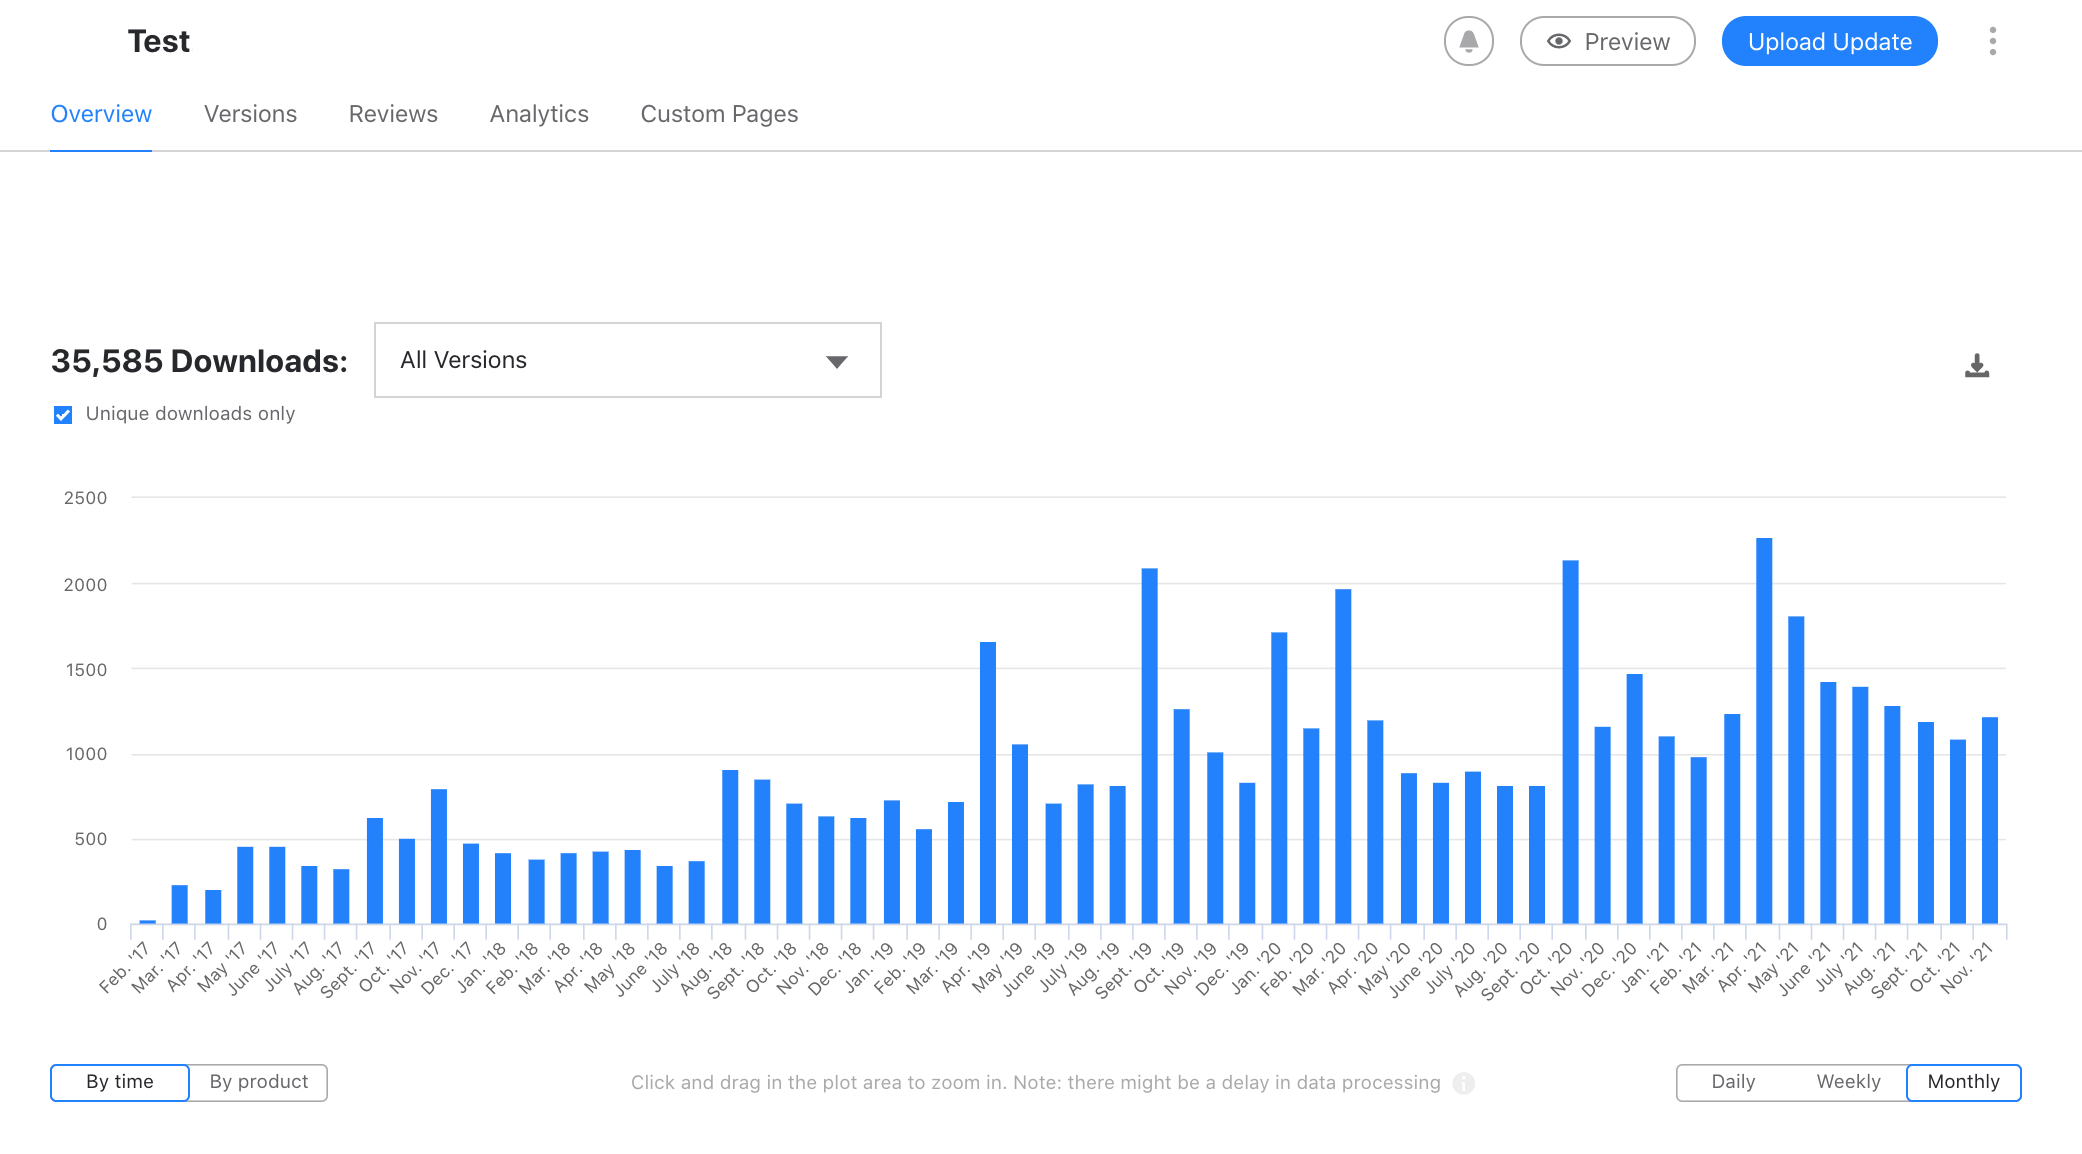
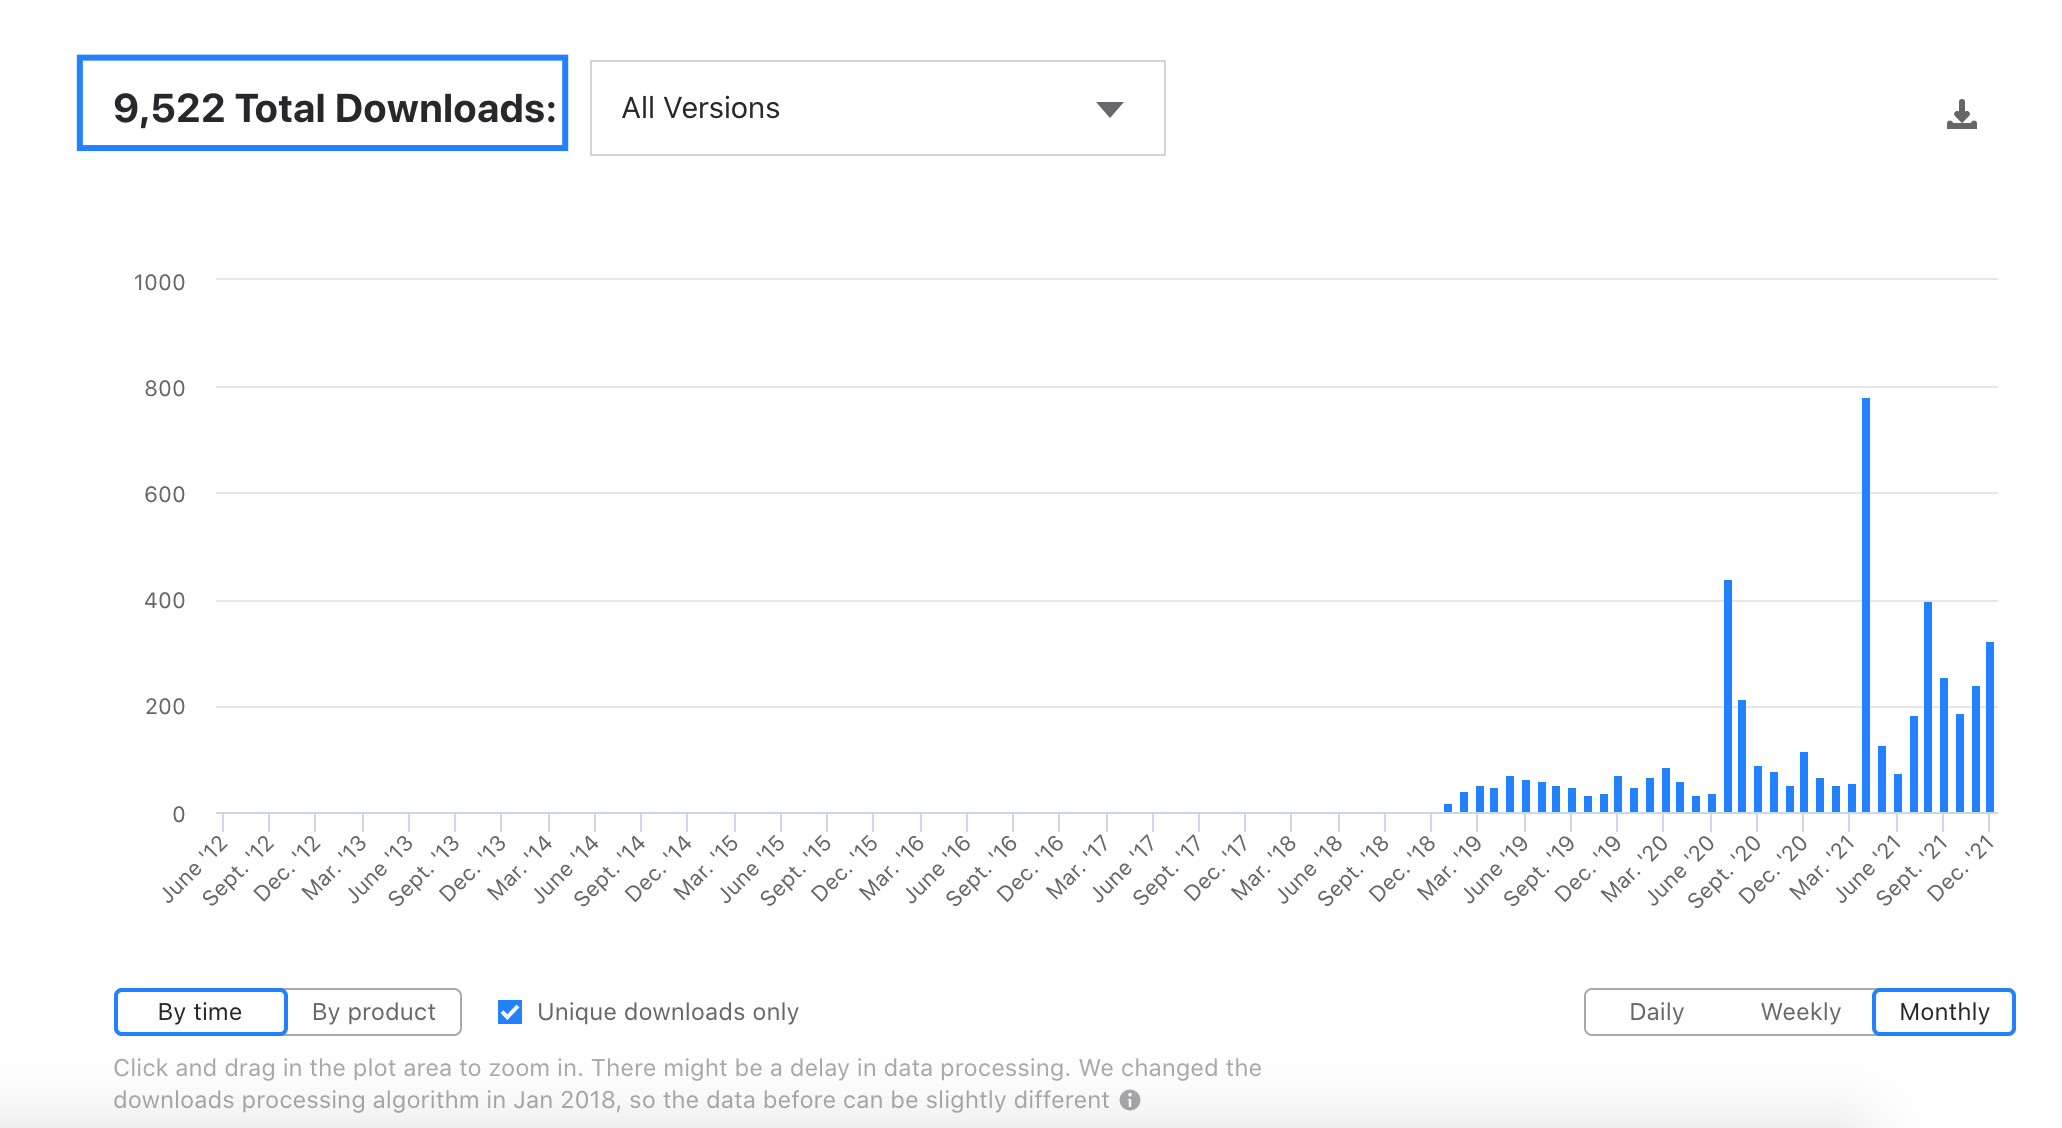
Update download stat

diff --git a/topics/marketplace-general/download-statistics.md b/topics/marketplace-general/download-statistics.md
@@ -4,13 +4,17 @@
 <p>Additionally, you can view downloads divided by period (month, week, day) or specific IDE (without a time reference). You can download the graph in various formats (image, CSV, etc.)</p>
 <p>Plugin download statistics for all versions may also include downloads of removed updates. Keep in mind that the processing latency for download statistics is 24 hours.</p>
 
+### Total Downloads:
+
+<p>We show the total number of downloads right above the graph. This number is also displayed in the plugin card preview and IDE search.</p>
+
 <img src="download-main.png" alt="Main Download Window"
 width="720"/>
 
 ### Unique Downloads:
 
-<p>By default, we show unique download statistics. The uniqueness is based on the unique user ID (UUID)  which is bound to the computer OS. The UUID is shared among all IntelliJ-based IDEs on this computer and does not change during IDE updates.</p>
-<p>However, the UUID will be different if an IDE with one license is installed on various computers.</p>
+<p>By default, we show unique download statistics. Keep in mind that we do not count the total number of unique downloads, but you can check the uniqueness per day, per week or per month.</p> 
+<p>The uniqueness is based on the unique user ID (UUID)  which is bound to the computer OS. The UUID is shared among all IntelliJ-based IDEs on this computer and does not change during IDE updates.However, the UUID will be different if an IDE with one license is installed on various computers.</p>
 
 ### Downloads by version:
 
